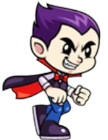
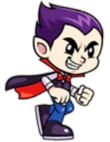
Some modification
1. run animation modified. (5 new images added)
2. 2 new water monsters added

Changed region(s): [[0.0, 0.0, 0.9722, 1.0]]

diff --git a/core/src/game/Character.java b/core/src/game/Character.java
@@ -14,7 +14,7 @@ public class Character implements ForObject {
     // character variables starts
     public float characterX = 50; // x-axis of character
     public float characterY = 0; // y-axis of character
-    public float characterWaterWidth = 108; // character width when in water
+    public float characterWaterWidth = 100; // character width when in water
     public float characterAirWidth = 70; // character width when in air
     public float characterWidth = characterWaterWidth; // initially character is in water
     public float characterHeight = 140; // character height is always same
@@ -37,7 +37,7 @@ public class Character implements ForObject {
     float runStateTime = 0f; // to calculate state time for running animation
     Animation runAnimation; // to create running animation
     TextureRegion runReg; // for animate every texture
-    public int runImgCnt = 9; // number of images for run animation
+    public int runImgCnt = 10; // number of images for run animation
     public float runFrameDuration = 0.075f; // frame duration of every texture
     // run animation ends
 
@@ -212,8 +212,7 @@ public class Character implements ForObject {
      */
     public void createRunAnimation() {
         Array<TextureRegion> textureRegion = new Array<>(); // to store all the textures.
-        for (int i = 1; i <= runImgCnt + 1; i++) {
-            if (i == 6) continue; // this image is ignored. because it's not necessary
+        for (int i = 1; i <= runImgCnt; i++) {
             Texture texture = new Texture("Run\\r" + i + ".png"); // creating new texture
             texture.setFilter(Texture.TextureFilter.Linear, Texture.TextureFilter.Linear); // filtering texture
             textureRegion.add(new TextureRegion(texture)); // adding texture to texture region

diff --git a/core/src/game/Monster.java b/core/src/game/Monster.java
@@ -25,10 +25,11 @@ public class Monster implements ForObject{
     public float airMonsterMinDistance = Gdx.graphics.getHeight() / 2f; // min distance of air monsters.
     public float airMonsterMaxDistance = Gdx.graphics.getHeight(); // max distance of air monsters
     public float monsterDirection = 1f; // direction of water monsters. if they are going upward or downward.
-    public int waterMonsterCnt = 2; // count of water monsters
+    public int waterMonsterCnt = 4; // count of water monsters
     public int airMonsterCnt = 4; // count of air monsters
     public String[] monsterImgLoc = {"Monster\\mons1.png", "Monster\\mons2.png", "Monster\\mons3.png",
-            "Monster\\mons4.png", "Monster\\mons5.png", "Monster\\mons6.png"}; // image location of monsters
+            "Monster\\mons4.png", "Monster\\mons5.png", "Monster\\mons6.png",
+            "Monster\\mons7.png", "Monster\\mons8.png"}; // image location of monsters
     Texture monsTexture; // texture for monster images
     public boolean remove = false; // a boolean value to remove monsters after collision with character
         // or when x-axis < 0
